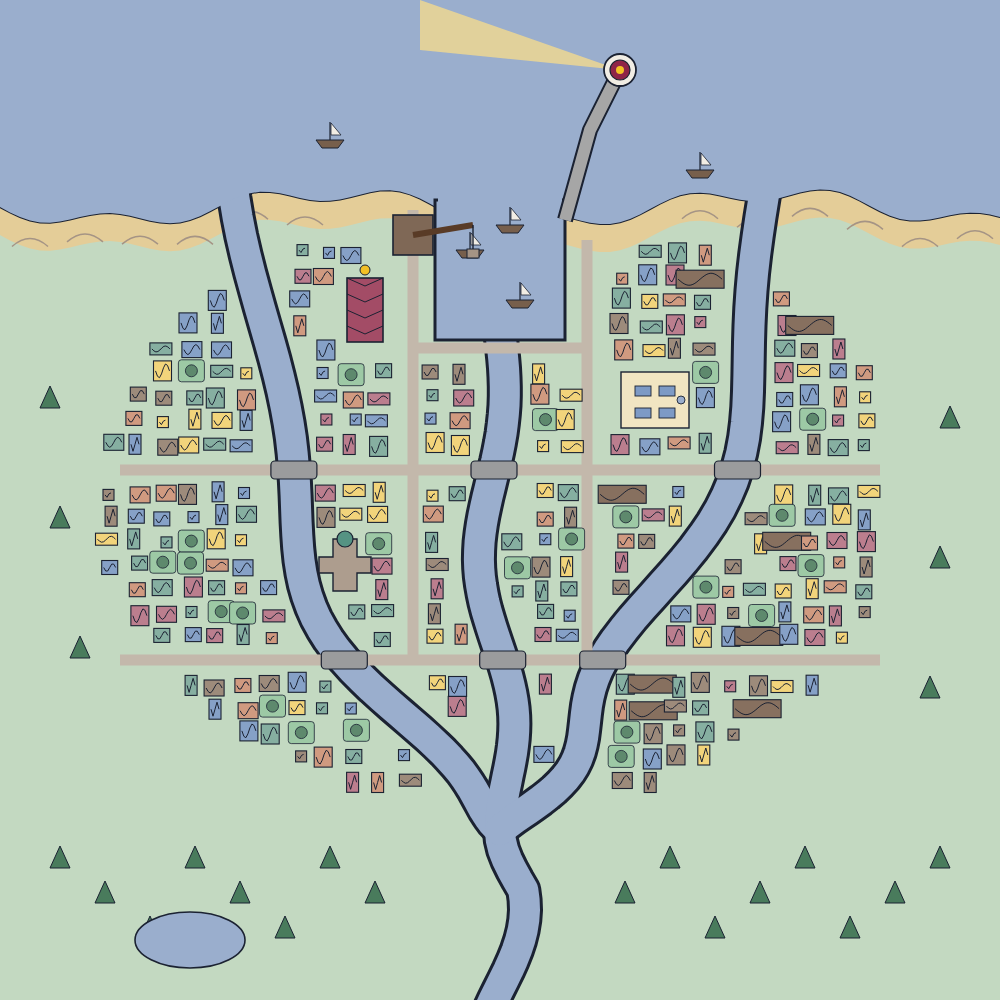
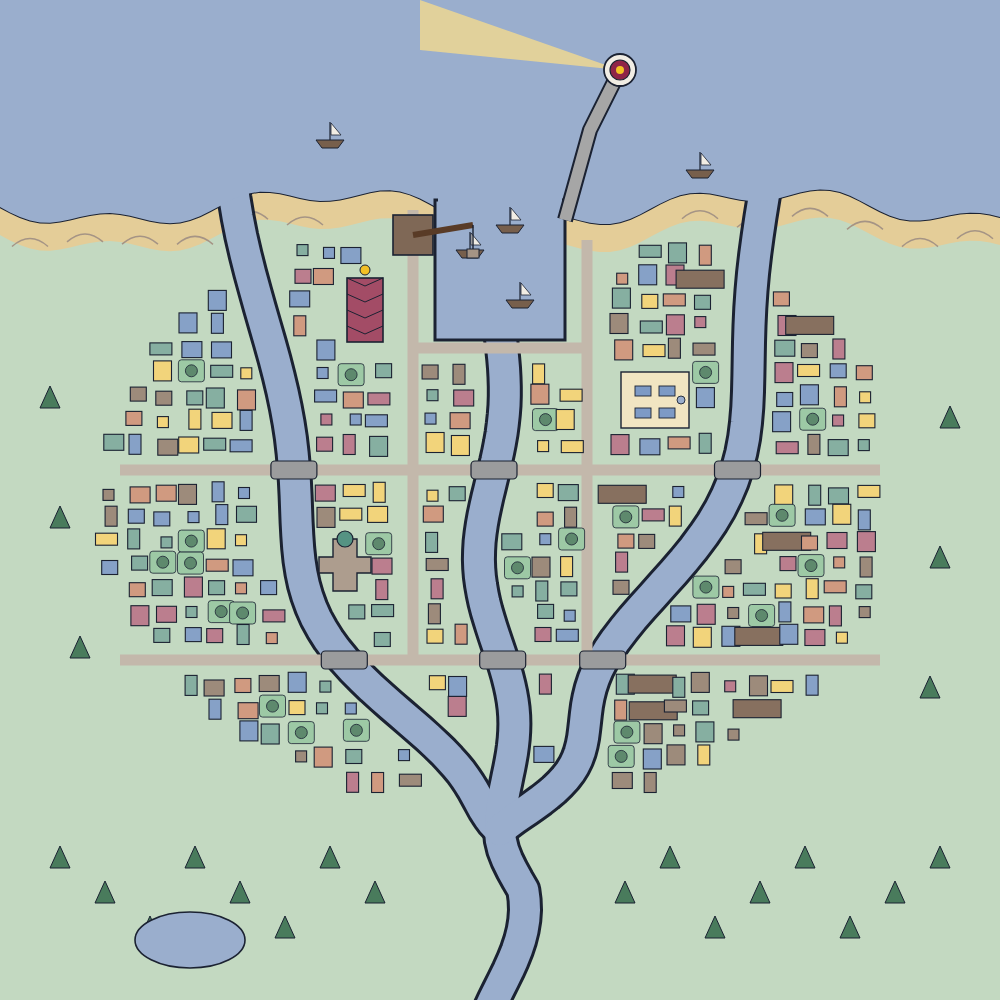
docs(illustrations): référence de Sinusborg sans sinusoïdes, prompt v3
Claude-Session: https://claude.ai/code/session_01WMAjmmHoEUS9oANk42SmfT

Changed region(s): [[0.434, 0.682, 0.465, 0.713]]

diff --git a/docs/Chiphres/illustrations/villes/sinusborg/plan-schematique.py b/docs/Chiphres/illustrations/villes/sinusborg/plan-schematique.py
@@ -148,6 +148,8 @@ for pts in ARMS:
 def house(x, y, w, h, fill):
     # maison vue d'en haut, faîtage en sinusoïde
     add(f'<rect x="{x:.1f}" y="{y:.1f}" width="{w:.1f}" height="{h:.1f}" fill="{fill}" stroke="{INK}" stroke-width="1.1"/>')
+    if IA:
+        return  # l'IA recopiait la sinusoïde comme un logo sur des carrés plats (2e essai) : blocs nus, le prompt fait les toits
     wave = [(x + 2 + u, y + h / 2 + (h / 2 - 3) * math.sin(u / (w - 4) * 2 * math.pi)) for u in range(0, int(w - 3), 2)]
     add(f'<path d="{path(wave)}" fill="none" stroke="{INK}" stroke-width="1"/>')
 

diff --git a/docs/wip/illustrations-progress.md b/docs/wip/illustrations-progress.md
@@ -5,7 +5,7 @@
 _Mis à jour le 2026-10-30, plan de Sinusborg VALIDÉ ; pas de PR : chantier 100 % doc._
 
 - **État** : casting, gouverneurs et Palotins versés au Compendium (§ XI) ; plans des sept capitales au Compendium. **Grande carte terminée** : sept villes, noms, frontières, cartouche et encart de la Réunion (bas-droite). **Fond de la grande carte FIGÉ** : `carte/fond-carte-hd.webp` (4356×3904, WebP q92 ; PNG maître de 32 Mo chez David, `~/Downloads/fond-carte-hd-2026-10-29.png`, hors dépôt). Chaîne : Nano Banana (style carte de conte / carte marine, référence `carte/plan-reference-ia.png`) → retouches une à une (`carte/fond-retouche-2026-10-29.jpeg`, 1089×976) → Upscayl ×4, modèle High Fidelity (Digital Art durcit les traits en BD, Standard floute). Pas de clairière à Sinusborg (sa vignette couvrira le delta). Leçon : chaque retouche Nano Banana dégrade l'image ; nouvelle conversation, une retouche par demande.
-- **Prochaine action** : **Sinusborg en cours, plan validé** (2026-10-30) ; image Nano Banana avec le **prompt v2** de « Cartes des capitales » (1er essai : grille recopiée, plan refait) (référence `~/Downloads/sinusborg-plan-reference-ia.png`), puis retouches ciblées vérifiées par différence avec l'original → surcouche `carte-sinusborg.py` → WebP. Restent ensuite Cracovenn, Lobatchevsk, Empoche-les-Bains, Bonneteau. Méthode : plan schématique `villes/<ville>/plan-schematique.py` (modèle : `villes/turingrad/`). **Sandomir et Turingrad terminées.** Rendu SVG → PNG par `chrome-headless-shell` de Playwright, puis `magick -quality 92` → WebP.
+- **Prochaine action** : **Sinusborg en cours, plan validé** (2026-10-30) ; image Nano Banana avec le **prompt v3** de « Cartes des capitales » (dernier essai décidé par David ; essais 1 et 2 non gardés) (référence `~/Downloads/sinusborg-plan-reference-ia.png`), puis retouches ciblées vérifiées par différence avec l'original → surcouche `carte-sinusborg.py` → WebP. Restent ensuite Cracovenn, Lobatchevsk, Empoche-les-Bains, Bonneteau. Méthode : plan schématique `villes/<ville>/plan-schematique.py` (modèle : `villes/turingrad/`). **Sandomir et Turingrad terminées.** Rendu SVG → PNG par `chrome-headless-shell` de Playwright, puis `magick -quality 92` → WebP.
 - **En attente de David** : l'image Nano Banana de Sinusborg (il la génère).
 - **Pièges en cours** : **fichiers pour l'IA copiés dans `~/Downloads`** ; une retouche Nano Banana redessine parfois toute l'image (couleurs, netteté ; pas pour Turingrad : vérifier par différence avec l'original) : corriger à la main sur l'original (`effacer-ponts.sh`, `coller-arene.sh`) ; image de style en 2e pièce jointe = copiée telle quelle, ne pas la joindre. **pas de formes géométriques plaquées sur le paysage** (David, 2026-10-29) : la discipline de chaque province ne se montre que dans sa ville. Ubu sans chapeau pointu ni longue robe blanche ; joindre l'image d'Ubu comme référence à chaque nouveau personnage ; noms de couleurs en anglais courant ; références sans texte ; jamais de personne réelle nommée. Le Lexique décrit encore Turingrad « brutaliste soviétique » : ne pas y toucher sans demande.
 - **Worktree / branche** : aucun, commits doc directs sur `main`.
@@ -137,6 +137,18 @@ Redraw the attached plan as a richly detailed, hand-drawn bird's-eye map of an i
 Layout to keep: the Baltic Sea along the top, with a low coast of sandy beaches and grassy dunes. A river comes in from the bottom edge and splits into three gently meandering branches with natural, irregular banks, reeds and little sandbanks: the left and right branches wind out to the sea, the middle branch winds north and widens into a rectangular harbor basin with stone quays, open to the sea. The branches cut the city into islands. Two long cobbled streets cross the whole city from west to east; where they cross the branches there are six arched stone bridges, each one different. Quay streets run along both sides of the harbor. Between them, a maze of narrow crooked lanes and alleys. No city wall: the city fades into meadows, pine forests and a small lake.
 The small colored rectangles of the plan are only placeholders for city blocks: do not draw them as rows or stacks. Draw a dense, organic old town of varied buildings, every one different in size, height, shape, color and orientation: tall narrow gabled merchant houses, stepped gables, timber-framed houses, low fishermen's cottages with tiny gardens, big brick warehouses with hoist beams along the water, inner courtyards with a tree, little squares with a well. Colors: soft purple, blue, mustard yellow, teal, terracotta and brown. Every roof is wavy: the roof ridges and eaves undulate like smooth sine waves, rolling wave-shaped roofs across the whole city. This is the most important feature of the city.
 Places to keep: at the tip of a long stone pier leaving from the harbor's right corner, a tall red-and-white striped lighthouse, its golden beam sweeping across the sea. On the main quay, left of the harbor: a huge medieval wooden harbor crane, a tall timber crane gate with its arm over the water, lifting a crate on a rope; just below it, a tall narrow purple house with stepped Nordic gables and a small golden ornament, the finest house of the city. On the left island, a brick church shaped like a cross, with a green copper spire. On the right island, a cobbled fish market square with striped stalls and a well. In the harbor and at sea: sailing ships, cogs and fishing boats riding up and down on the swell.
+Life everywhere: tiny sailors, fishermen and merchants on the quays and in the lanes, barrels, crates and fishing nets, fish stalls, small rowing boats under the bridges and moored along the branches, seagulls, laundry hanging between houses, smoke from chimneys, flags and pennants fluttering, a few windmills in the meadows, fishermen's huts and boats pulled up on the beach.
+Style: an antique storybook map, like an early 20th-century fairy-tale map or an old sea chart: fine ink outlines, soft watercolor washes on aged cream parchment. Colors: navy ink, cream parchment, royal purple, teal, mustard yellow, terracotta, soft blue water, pale sand, meadows in soft greens, dark green pines.
+No text, no labels, no letters, no numbers, no compass rose, no frame, no border.
+```
+
+Sinusborg, 2e essai (prompt v2, 2026-10-30, non gardé) : bien meilleur (delta naturel, six ponts, grue et caisse, marché, église, vie), mais beaucoup de maisons restent des **carrés plats portant la sinusoïde du plan, recopiée comme un logo**, et la Résidence de Bougrelas est **dessinée deux fois**. Dernier essai décidé par David : référence IA aux **blocs nus** (`house()` sans sinusoïde en `--reference-ia`), prompt v3 = v2 + une seule maison pourpre + vraies maisons :
+
+```
+Redraw the attached plan as a richly detailed, hand-drawn bird's-eye map of an imaginary Nordic Hanseatic port city, keeping every element exactly where it is, with the same shapes and proportions. Square format.
+Layout to keep: the Baltic Sea along the top, with a low coast of sandy beaches and grassy dunes. A river comes in from the bottom edge and splits into three gently meandering branches with natural, irregular banks, reeds and little sandbanks: the left and right branches wind out to the sea, the middle branch winds north and widens into a rectangular harbor basin with stone quays, open to the sea. The branches cut the city into islands. Two long cobbled streets cross the whole city from west to east; where they cross the branches there are six arched stone bridges, each one different. Quay streets run along both sides of the harbor. Between them, a maze of narrow crooked lanes and alleys. No city wall: the city fades into meadows, pine forests and a small lake.
+The small colored rectangles of the plan are only placeholders for city blocks: do not draw them as rows or stacks. Draw a dense, organic old town of varied buildings, every one different in size, height, shape, color and orientation: tall narrow gabled merchant houses, stepped gables, timber-framed houses, low fishermen's cottages with tiny gardens, big brick warehouses with hoist beams along the water, inner courtyards with a tree, little squares with a well. Colors: soft purple, blue, mustard yellow, teal, terracotta and brown. Every roof is wavy: seen from above, each roof ridge and each eave undulates like a smooth sine wave, so the whole city looks like a sea of rolling wave-shaped roofs. This is the most important feature of the city. Draw real houses with roofs, chimneys, windows and doors, never flat colored squares or symbols.
+Places to keep: at the tip of a long stone pier leaving from the harbor's right corner, a tall red-and-white striped lighthouse, its golden beam sweeping across the sea. On the main quay, left of the harbor: a huge medieval wooden harbor crane, a tall timber crane gate with its arm over the water, lifting a crate on a rope; just below it, a tall narrow purple house with stepped Nordic gables and a small golden ornament, the finest house of the city; it appears only once, there is no other purple gabled house. On the left island, a brick church shaped like a cross, with a green copper spire. On the right island, a cobbled fish market square with striped stalls and a well. In the harbor and at sea: sailing ships, cogs and fishing boats riding up and down on the swell.
 Life everywhere: tiny sailors, fishermen and merchants on the quays and in the lanes, barrels, crates and fishing nets, fish stalls, small rowing boats under the bridges and moored along the branches, seagulls, laundry hanging between houses, smoke from chimneys, flags and pennants fluttering, a few windmills in the meadows, fishermen's huts and boats pulled up on the beach.
 Style: an antique storybook map, like an early 20th-century fairy-tale map or an old sea chart: fine ink outlines, soft watercolor washes on aged cream parchment. Colors: navy ink, cream parchment, royal purple, teal, mustard yellow, terracotta, soft blue water, pale sand, meadows in soft greens, dark green pines.
 No text, no labels, no letters, no numbers, no compass rose, no frame, no border.
